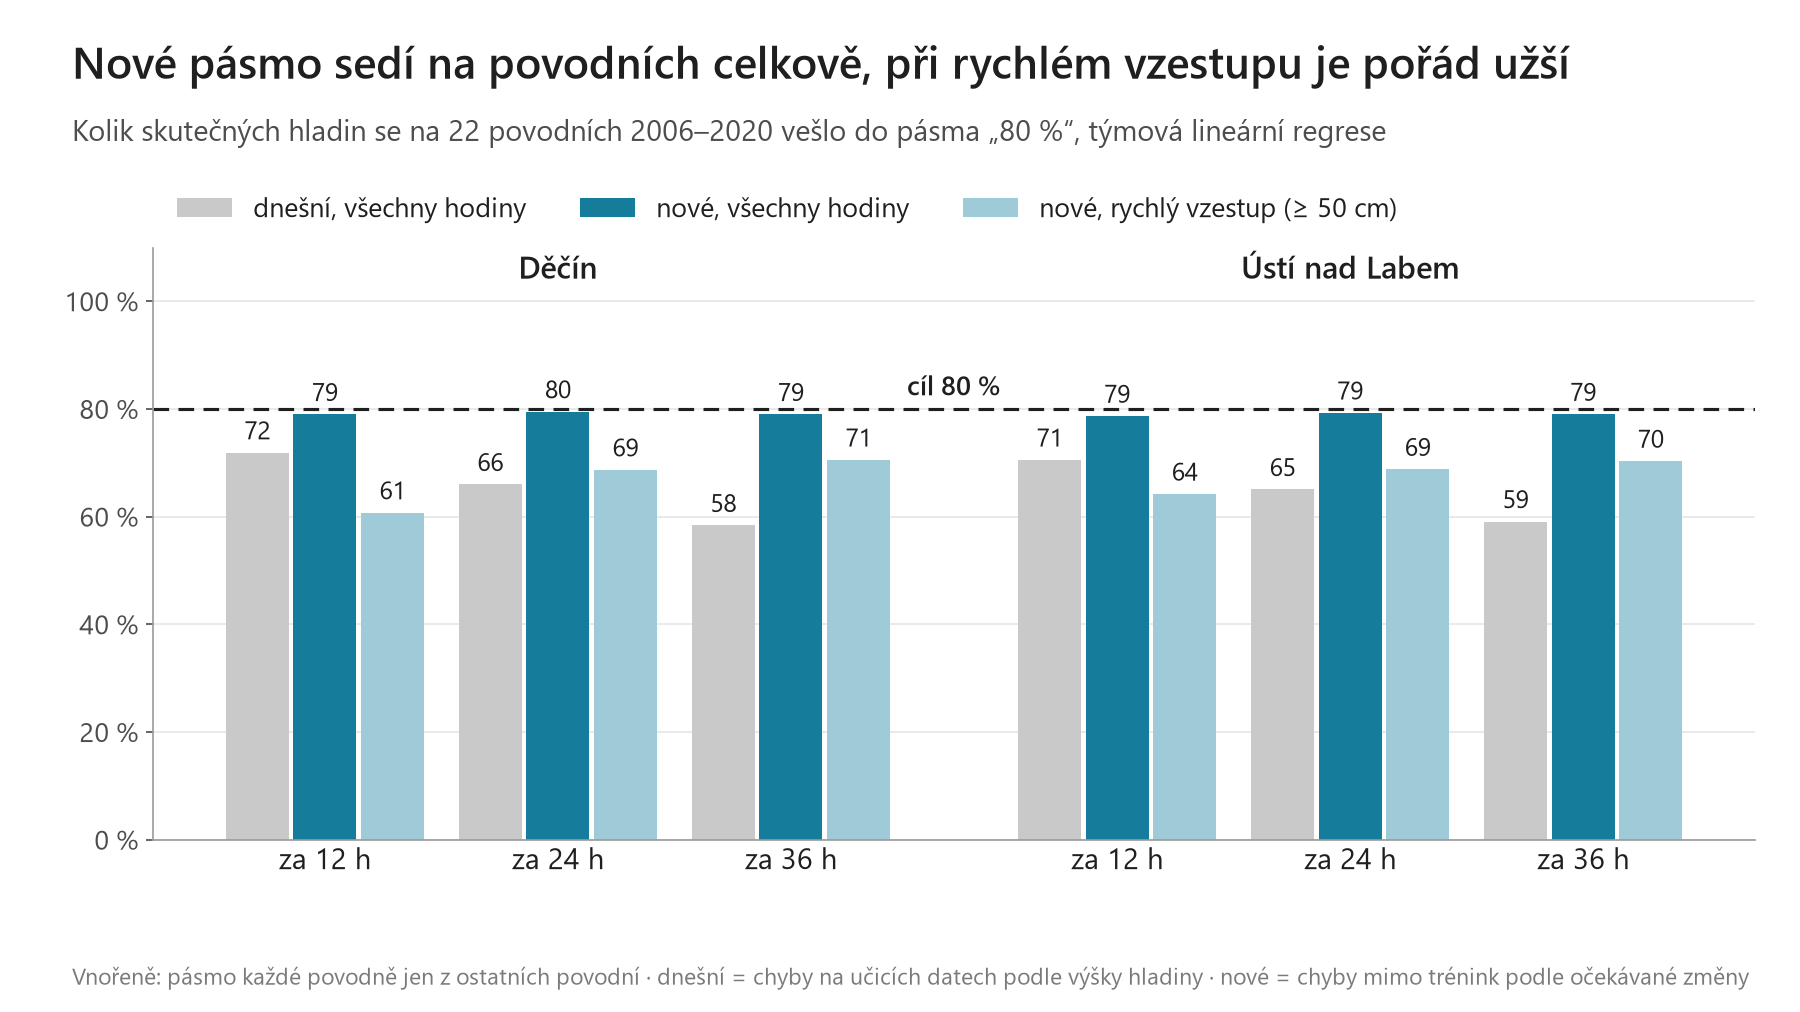
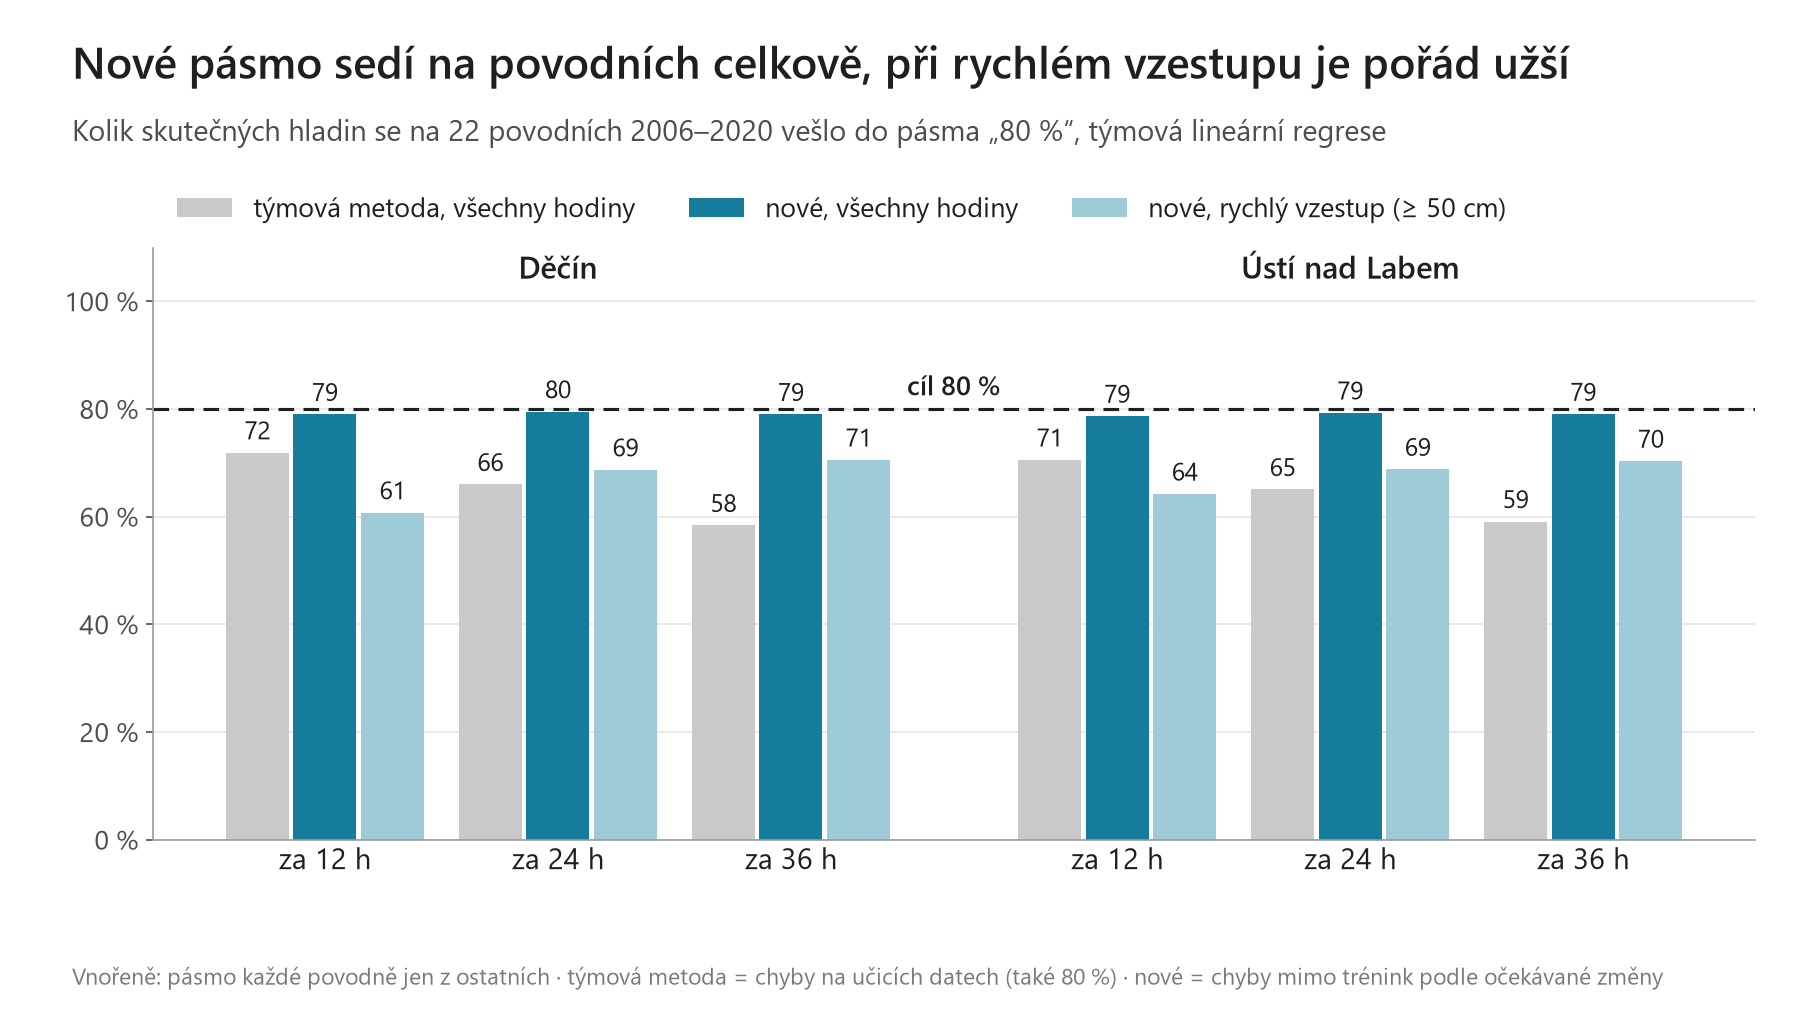
Dan: patch 01 odolnější a popis pásma podle použité metody, skutečné 90% pásmo aplikace dopočtené, opatrnější texty po kontrole

Changed region(s): [[0.1244, 0.1838, 0.84, 0.2144], [0.3111, 0.9496, 0.9644, 0.9802]]

diff --git a/nejistota_dan/grafy.py b/nejistota_dan/grafy.py
@@ -100,12 +100,12 @@ def graf_pokryti():
     fig, ax = slajd("Nové pásmo sedí na povodních celkově, při rychlém vzestupu je pořád užší",
                     f"Kolik skutečných hladin se na 22 povodních 2006–2020 vešlo do pásma „80{NB}%“, týmová lineární"
                     " regrese",
-                    "Vnořeně: pásmo každé povodně jen z ostatních povodní · dnešní = chyby na učicích datech podle"
-                    " výšky hladiny · nové = chyby mimo trénink podle očekávané změny",
+                    "Vnořeně: pásmo každé povodně jen z ostatních · týmová metoda = chyby na učicích datech (také 80"
+                    f"{NB}%) · nové = chyby mimo trénink podle očekávané změny",
                     rect=(0.085, 0.17, 0.89, 0.585))
     x = np.array([0, 1, 2, 3.4, 4.4, 5.4])
     s = 0.27
-    rady = [("tym_trenink", "pokryti", "#c9c9c9", "dnešní, všechny hodiny"),
+    rady = [("tym_trenink", "pokryti", "#c9c9c9", "týmová metoda, všechny hodiny"),
             (v, "pokryti", MODRA, "nové, všechny hodiny"),
             (v, "pokryti_rychly_vzestup", MODRA_SVETLA, "nové, rychlý vzestup (≥ 50 cm)")]
     for i, (var, sl, barva, popis) in enumerate(rady):

diff --git a/nejistota_dan/PREZENTACE_PASMO.md b/nejistota_dan/PREZENTACE_PASMO.md
@@ -5,19 +5,20 @@ model), podrobnosti v `ZPRAVA_NEJISTOTA.md`.
 
 ## Na slajd (jedna věta + obrázek)
 
-**„Nejspíš 708 až 794 cm“ znamená: v 8 z 10 podobných situací byla skutečnost v tomhle rozmezí.**
+**„Nejspíš 708 až 794 cm“: zpětně na 22 povodních padla skutečnost do takového pásma asi v 8 z 10 hodin; při rychlém
+vzestupu jen asi ve 2 ze 3.**
 Obrázek: `grafy/aplikace_povoden_2011.png` (aplikace, leden 2011) nebo `grafy/pasmo_2011-01-16.png` (světlý graf),
 k tomu `grafy/pokryti.png` (dnešní pásmo proti novému).
 
 ## Co říct (asi 30 s)
 
 - Předpověď jedním číslem nestačí, komise potřebuje vědět, jak moc jí věřit. Proto ke každé předpovědi ukazujeme
-  rozmezí, kam skutečnost padne v 8 z 10 případů.
+  rozmezí, kam zpětně na minulých povodních padla skutečnost asi v 8 z 10 hodin.
 - Rozmezí jsme nevzali z chyb na datech, na kterých se model učil, protože ty jsou menší, než bude v ostrém provozu.
   Vzali jsme chyby na 22 povodních 2006–2020, které model při učení neviděl.
 - A ověřili jsme ho poctivě: pro každou povodeň jsme model i rozmezí spočítali bez ní (a bez povodní těsně vedle ní).
   Skutečnost padla do
-  rozmezí v 78–80 % hodin, jak slibujeme. Dřívější rozmezí z učicích dat jen v 65 %.
+  rozmezí v 78–80 % hodin, jak slibujeme. Dnešní 90% rozmezí v aplikaci (z učicích dat) jen v 72–83 %.
 
 ## Proč je pásmo při rychlém vzestupu širší
 
@@ -33,17 +34,16 @@ k tomu `grafy/pokryti.png` (dnešní pásmo proti novému).
 
 ## Co přiznat, když se porota zeptá
 
-- **Při rychlém vzestupu** padne skutečnost do 80% pásma jen asi ve 2 ze 3 případů. Začátek vzestupu, kdy voda ještě
-  nestoupá ani u nás, ani v Praze, jsme z vodoměrů lépe poznat nedokázali (zkoušeli jsme trend, výšku hladiny,
+- **Při rychlém vzestupu** padne skutečnost do 80% pásma jen asi ve 2 ze 3 případů. Začátek vzestupu, kdy u nás voda
+  ještě nestoupá, jsme z vodoměrů lépe poznat nedokázali (zkoušeli jsme trend, výšku hladiny,
   Mělník i poslední chybu). Pomohla by nejspíš srážková předpověď.
 - **Největší povodeň 2013** (1 072 cm) je mimo všechno ostatní v souboru: pásmo zachytilo jen 4 z 10 hodin. Když je
   hladina nad historickým rozsahem, pásmu nevěřit.
 - **Dnešek:** model pro dnešek je učený na všech datech do 2025, na něm se pásmo ověřit nedalo (nemá neviděná data).
-  Na modelu učeném do 2018 a neviděných povodních 2006–2011 (ani kalibrace je neviděla) bylo pásmo spíš opatrné
-  (85–90 % místo 80 %).
+  Kontrola metody na modelu učeném do 2018 a neviděných povodních 2006–2011 (ani kalibrace je neviděla) vyšla spíš
+  opatrně (85–90 % místo 80 %).
 
 ## Otázka poroty a odpověď
 
-„Proč je rozmezí někdy úzké a někdy skoro metr?“ Protože se nemýlíme pořád stejně. Když řeka stojí, trefíme se skoro
-na centimetry. Když od Prahy jde vlna, víme, že přijde, ale ne přesně jak vysoká, a z 22 minulých povodní víme, o kolik
+„Proč je rozmezí někdy úzké a někdy skoro metr?“ Protože se nemýlíme pořád stejně. Když řeka stojí, bývají chyby malé. Když od Prahy jde vlna, víme, že přijde, ale ne přesně jak vysoká, a z 22 minulých povodní víme, o kolik
 jsme se v takové chvíli mýlili. To rozmezí je vlastně paměť našich minulých chyb v podobné situaci.

diff --git a/nejistota_dan/codex/kontrola_d_patche.md b/nejistota_dan/codex/kontrola_d_patche.md
@@ -1,0 +1,23 @@
+01–10 navazují bez kolizí při aplikaci pouze v paměti; výsledná syntaxe je platná. `git apply --check` prošel pro 01 i 10; **10 potřebuje 01 kvůli importu a API**, přestože samotná kontrola kontextu projde i bez něj.
+
+Stav před 6 h je správně ze vstupního řádku v historii i Dnešku. Patch 10 správně používá archiv, čas vydání a posun grafu o horizont. Bez modulu či `kvantily.json` se použije původní pásmo, pokud existuje jeho JSON. Současný nový JSON obsahuje všechny potřebné kombinace.
+
+- [vysoká] nejistota_dan/REVIZE_APLIKACE.md:61 – **85–90 % neověřuje přímo nasazené pásmo** – přísná kontrola používá kalibraci z 18 povodní, aplikace JSON ze všech 22, včetně validačních událostí. Čísla v CSV sedí, ale popsat je jako kontrolu metody s jinou kalibrací; případně nasadit odpovídající kvantily.
+
+- [vysoká] nejistota_dan/PREZENTACE_PASMO.md:8 – „8 z 10 podobných situací“ přisuzuje konkrétnímu pásmu podmíněné pokrytí – 78–80 % je celkové zpětné pokrytí, při rychlém vzestupu jen 59–72 %. Nahradit formulací „metoda zpětně pokryla přibližně 80 % hodnocených hodin“ a slabinu uvést hned.
+
+- [střední] nejistota_dan/REVIZE_APLIKACE.md:59 – původnímu **90% pásmu** přisuzuje výsledky **80% varianty** – CSV `tym_trenink` na úrovni 0,8 nedokládá pokrytí skutečného původního pásma. Totéž mate v PREZENTACE_PASMO.md:20. Výslovně označit srovnávanou 80% variantu; skutečné 90% pásmo těmito čísly nehodnotit.
+
+- [střední] nejistota_dan/patche/01.patch:89 – `popis_pasma()` nezná skutečně použitou větev – při vynechaném `hladina_pred_6h` vrátí `interval()` staré pásmo, popis nové; při jiné úrovni stále říká 80 %. U nepodporovaného modelu popisuje neexistující pásmo a záložní větev postrádá upozornění pro `ridge_vse`. Odvozovat popis ze zdroje, úrovně a dostupnosti výsledku.
+
+- [střední] nejistota_dan/patche/01.patch:60 – kontrola souboru nezaručuje bezpečné načtení – existující neplatný či neúplný JSON vyvolá neošetřenou výjimku v `pasmo()`; volání v 01 i 10 může přerušit stránku. Ověřit obsah a potřebné klíče před aktivací, při chybě použít zálohu s odpovídajícím popisem.
+
+- [střední] nejistota_dan/ZPRAVA_NEJISTOTA.md:27 – starému pásmu pro Děčín +24 h připisuje šířku 32 cm – CSV uvádí **28,6524 cm**; 31,6064 cm je průměr přes stanice a horizonty. Pro uvedenou kombinaci napsat přibližně **29 cm**.
+
+- [střední] nejistota_dan/PREZENTACE_PASMO.md:37 – „nestoupá ani … v Praze“ není definicí hodnoceného začátku vzestupu – výpočet sleduje místní změnu za 6 h a následný vzestup, Prahu nepodmiňuje. Zmínku o Praze odstranit.
+
+- [nízká] nejistota_dan/PREZENTACE_PASMO.md:48 – „trefíme se skoro na centimetry“ přehání přesnost – doložené klidové pásmo má šířku 33 cm. Napsat „chyby bývají menší než při vzestupu“.
+
+Šířky **−9 až +24 cm / −30 až +56 cm** odpovídají JSON (−9,4/+23,6 a −30,3/+56,0). Ostatní rozsahy ve shrnutí zprávy odpovídají CSV po zaokrouhlení.
+
+Nic jsem nezměnil ani nezapsal, aplikaci nespustil, `.env` ani přihlašovací údaje nečetl a test 2021–2025 nepoužil.

diff --git a/nejistota_dan/NALEZY_CODEX.md b/nejistota_dan/NALEZY_CODEX.md
@@ -44,3 +44,19 @@ bere stav před 6 h správně z řádku vstupů.
 | nízká | `ZPRAVA_NEJISTOTA.md:122` Ústí +12 h 95 % v klidu 97, ne 98; rozsah 78–80, ne 79–80 | **Opraveno** (tabulka modelu aplikace je teď z přísné kontroly, rozsah 78–80 %) |
 | nízká | `nejistota_dan.py:98` vícerozměrná pole | **Opraveno**: `pasmo()` bere jen čísla a jednorozměrná pole, jinak výjimka |
 | nízká | `nejistota_dan.py:59` docstring slibuje pokrytí, ořez pořadí u malých vzorků | **Opraveno**: docstring bez záruky, na malý vzorek výjimka místo ořezu (skupiny pod 200 hodin stejně dostanou kvantily ze všech chyb) |
+
+## (d) Patche 01 a 10 a texty pro tým (so 04:38–04:40)
+
+Potvrdil: 01–10 jdou po sobě bez kolizí, 10 potřebuje 01; stav před 6 h správně v historii i Dnešku; patch 10 bere
+archiv a posun o horizont správně; šířky −9 až +24 a −30 až +56 cm sedí s `kvantily.json`.
+
+| Závažnost | Nález | Reakce |
+|---|---|---|
+| vysoká | `REVIZE_APLIKACE.md` 85–90 % neověřuje přímo nasazené pásmo (jiná kalibrace) | **Opraveno ve formulaci**: „kontrola metody“, nasazené kvantily jsou z 22 povodní včetně validačních |
+| vysoká | `PREZENTACE_PASMO.md` „8 z 10 podobných situací“ = podmíněné pokrytí | **Opraveno**: „zpětně asi v 8 z 10 hodin; při rychlém vzestupu jen asi ve 2 ze 3“ |
+| střední | srovnání s „dnešním pásmem“ používá 80% variantu týmové metody, ne skutečné 90% pásmo | **Opraveno**: dopočteno skutečné 90% pásmo (`vysledky/tym_pasmo_90.csv`: 72–83 %, rychlý vzestup 33–44 %), graf `pokryti.png` popisuje šedé sloupce jako „týmová metoda (také 80 %)“ |
+| střední | `01.patch` `popis_pasma()` nezná použitou větev a úroveň | **Opraveno**: `popis_pasma(nazev, uroven)` s úrovní v textu, volá se jen tam, kde `interval()` dostává stav před 6 h; poznámka o `ridge_vse` i u starého pásma |
+| střední | `01.patch` rozbitý `kvantily.json` shodí stránku | **Opraveno**: `_nejistota()` modul zkusí jedním voláním, při chybě zůstane staré pásmo (ověřeno s podvrženým rozbitým JSON) |
+| střední | `ZPRAVA_NEJISTOTA.md` šířka 32 cm je průměr, ne Děčín +24 h | **Opraveno**: 29 cm |
+| střední | `PREZENTACE_PASMO.md` „ani v Praze“ není v definici začátku vzestupu | **Opraveno** |
+| nízká | „trefíme se skoro na centimetry“ | **Opraveno**: „bývají chyby malé“ |

diff --git a/nejistota_dan/REVIZE_APLIKACE.md b/nejistota_dan/REVIZE_APLIKACE.md
@@ -56,13 +56,13 @@ a test a řekne, že předstih je nejvýš horizont a propásnutá povodeň = 0.
 (ČÚZK DMR 5G)** (`app.py:293–296, 339–342`; `mapbox_mapa.py:403` výchozí `uredni: false`). Patch `04.patch`.
 
 **V4. Pásmo „nejspíš“ slibuje víc, než platí, a na výchozí obrazovce ho skutečnost mine.** Popisek (`app.py:228`)
-„90 % chyb na tréninku; na povodních… asi 8 z 10“: vnořená kontrola na 22 povodních (`ZPRAVA_NEJISTOTA.md`) dává
-dnešnímu pásmu na povodních 59–72 % a na začátku vzestupu 15 %.
-- Patch `01.patch` napojí nové pásmo (`nejistota_dan.pasmo`, 80 %, ověřené 78–80 % na 22 povodních, na modelu aplikace
-  a neviděné validaci 85–90 %, při rychlém vzestupu ~2 ze 3). Legenda a popisky se berou z `popis_pasma()`, takže se
+„90 % chyb na tréninku; na povodních… asi 8 z 10“: vnořená kontrola na 22 povodních 2006–2020 dává tomuto 90% pásmu
+72–83 % hodin, při rychlém vzestupu 33–44 % a na začátku vzestupu 19–38 % (`vysledky/tym_pasmo_90.csv`).
+- Patch `01.patch` napojí nové pásmo (`nejistota_dan.pasmo`, 80 %, zpětně 78–80 % na 22 povodních, při rychlém vzestupu
+  ~2 ze 3; kontrola metody na modelu aplikace s kalibrací bez validace 85–90 %). Legenda a popisky se berou z `popis_pasma()`, takže se
   řídí tím, které pásmo se opravdu použilo; u `ridge_vse` je věta, že jde o neověřený odhad. Potřebuje sloučit
-  `nejistota_dan/` z větve `dan-nejistota` (modul + `kvantily.json`); bez nich zůstane staré pásmo i se starým
-  popiskem (ověřeno), nic nespadne.
+  `nejistota_dan/` z větve `dan-nejistota` (modul + `kvantily.json`); bez nich nebo s rozbitým `kvantily.json`
+  zůstane staré pásmo i se starým popiskem (ověřeno), nic nespadne.
 - Patch `10.patch` (jen po 01): pásmo i v grafu povodně na záložce Jak dobře to funguje. Snímky aplikace s 01 a 10
   z dočasné kopie mimo repo: `grafy/aplikace_ted.png`, `grafy/aplikace_povoden_2011.png`. Text pro prezentaci:
   `PREZENTACE_PASMO.md`.

diff --git a/nejistota_dan/PRUBEH.md b/nejistota_dan/PRUBEH.md
@@ -12,3 +12,4 @@ Dan, větev `dan-nejistota` (z `origin/main` 59956c9), worktree `hackathon-2026-
 - 03:43 Finální ověření po blocích: vybraná varianta 6 pásem předpovězené změny; 80% pásmo 79–80 %, 95% 94–95 % u všech tří modelů; rychlý vzestup 59–72 %, rekordní 6/2013 42 %; model aplikace (Ridge do 2018) na neviděné validaci 84–88 % (povodně), 86–94 % (klid). Přísná kontrola Ridge: 79,4 / 94,2 % proti 78,9 / 94,0 % obyčejně. Grafy a zpráva hotové.
 - 03:52 Revize aplikace: test_app 9/9 (čistý stav, 23,5 s první start) a s --dnesek 10/10; simulovaná visící Wi-Fi: Dnešek 42 s do chyby; statická revize + Codex sloučené do REVIZE_APLIKACE.md (2 kritické, 6 vysokých), 9 patchů v patche/, všechny se aplikují samostatně i po sobě a s nimi test_app projde; app/ ve větvi beze změny.
 - 04:37 Kontrola oprav Codexem (c): opravy bloků a NaN potvrdil, všech 228 čísel tabulek sedí; nové nálezy opraveny: úplně nezávislá kontrola modelu aplikace (kalibrace jen z 18 tréninkových povodní: 80% pásmo 85–90 % na validačních povodních, 87–94 % v klidu), přísná kontrola i s hodnocenou předpovědí bez celého bloku (79,4 / 94,2 %), patch 01 se zálohou bez modulu a popiskem podle použitého pásma, opatrnější formulace. Patch 10 (pásmo v grafu povodně), snímky aplikace z dočasné kopie mimo repo, text do prezentace PREZENTACE_PASMO.md.
+- 04:46 Kontrola Codexem (d) patchů 01/10 a textů: patch 01 zpevněný (zkušební volání modulu, popis podle úrovně, ridge_vse), dopočteno skutečné 90% pásmo aplikace na 22 povodních (72–83 %), texty opatrnější, snímky aplikace obnovené (legenda „rozmezí (80 % hodin)“).
